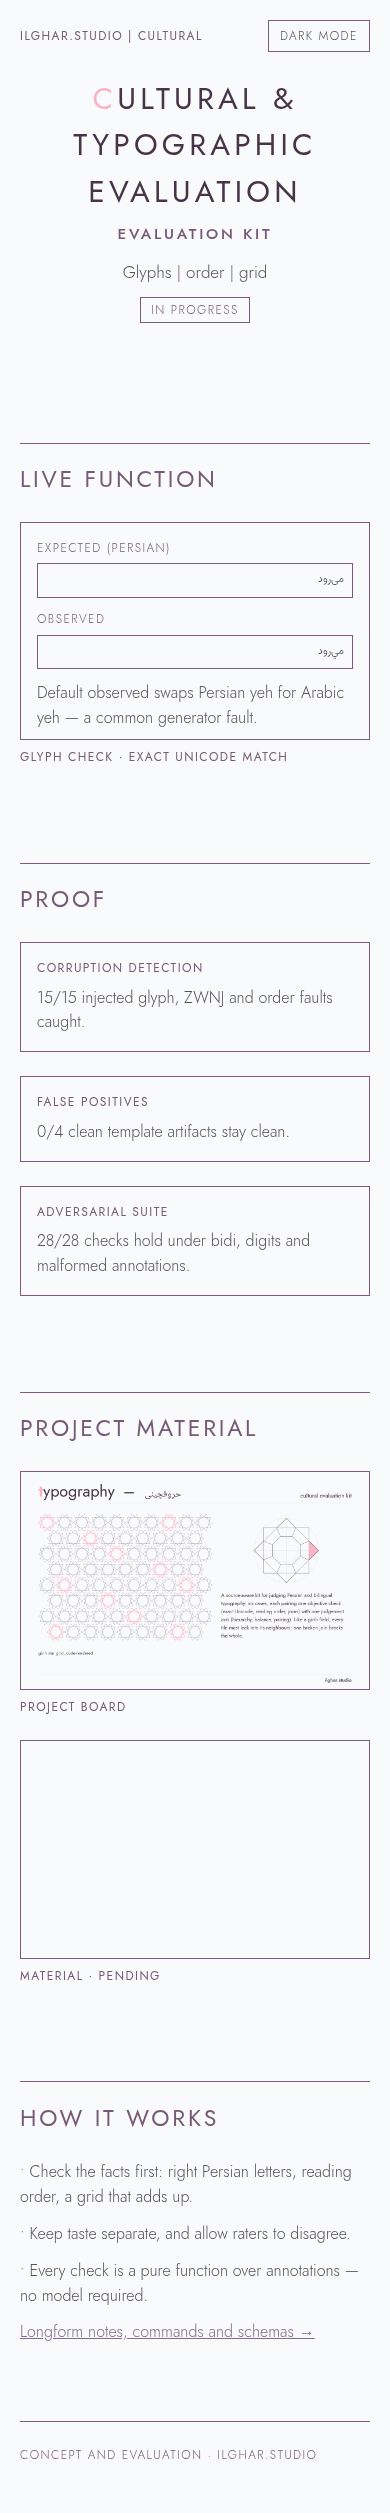
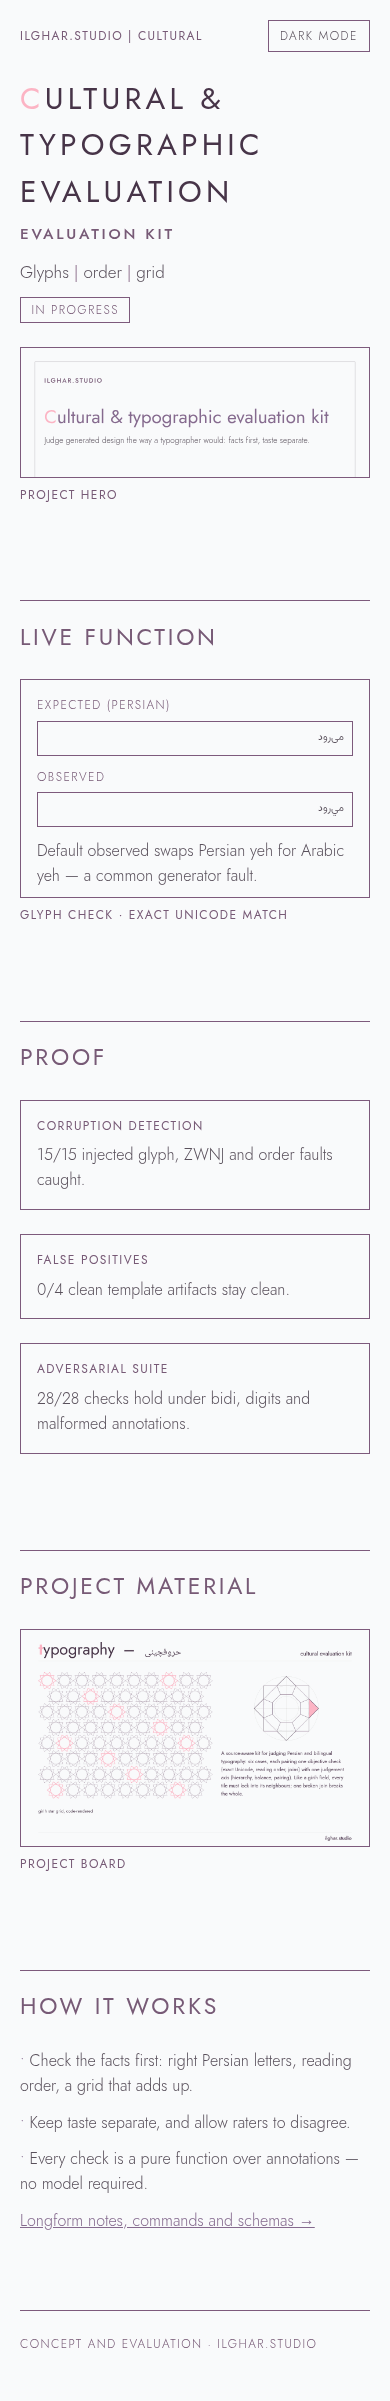
fix(pages): left-align header, add repo title-card hero, drop pending
Wire docs/hero/hero-*.svg into site/hero in an 8:3 frame (existing
title-card art). Left-align .hero. Remove Material·pending. Prefill
glyph check by running it on load with the sample fields.

diff --git a/site/index.html b/site/index.html
@@ -32,6 +32,16 @@ pre.out{margin:0;font:300 14px/1.5 Jost;white-space:pre-wrap;color:var(--fg)}
     <span class="status">In progress</span>
   </header>
 
+  <figure class="span12">
+    <div class="frame r83">
+      <picture>
+        <source media="(prefers-color-scheme: dark)" srcset="hero/hero-dark.svg">
+        <img src="hero/hero-light.svg" width="1200" height="630" alt="Title card for Cultural & Typographic Evaluation by ilghar.studio.">
+      </picture>
+    </div>
+    <figcaption>Project hero</figcaption>
+  </figure>
+
   <section class="span12" aria-label="Live function">
     <h2>Live function</h2>
     <figure>
@@ -59,21 +69,15 @@ pre.out{margin:0;font:300 14px/1.5 Jost;white-space:pre-wrap;color:var(--fg)}
 
   <section class="span12" aria-label="Project material">
     <h2>Project material</h2>
-    <div class="grid-66">
-      <figure>
-        <div class="frame r1610">
-          <picture>
-            <source media="(prefers-color-scheme: dark)" srcset="assets/board-dark.svg">
-            <img src="assets/board-light.svg" alt="Project board: a fine-line star grid with some stars marked in rose, a code-drawn star construction with one rose point, and a text column describing the seven checks." width="2400" height="1500">
-          </picture>
-        </div>
-        <figcaption>Project board</figcaption>
-      </figure>
-      <figure>
-        <div class="frame r1610 placeholder" role="img" aria-label="Second material slot"></div>
-        <figcaption>Material · pending</figcaption>
-      </figure>
-    </div>
+    <figure>
+      <div class="frame r1610">
+        <picture>
+          <source media="(prefers-color-scheme: dark)" srcset="assets/board-dark.svg">
+          <img src="assets/board-light.svg" alt="Project board: a fine-line star grid with some stars marked in rose, a code-drawn star construction with one rose point, and a text column describing the seven checks." width="2400" height="1500">
+        </picture>
+      </div>
+      <figcaption>Project board</figcaption>
+    </figure>
   </section>
 
   <section class="span12">
@@ -103,6 +107,7 @@ document.getElementById("g-run").addEventListener("click",function(){
   }
   document.getElementById("g-out").textContent=lines.join("\n");
 });
+document.getElementById("g-run").click();
 </script>
 </body>
 </html>

diff --git a/site/pages-shell.css b/site/pages-shell.css
@@ -38,14 +38,14 @@ header.site{display:flex;align-items:center;justify-content:space-between;gap:12
   background:transparent;border:1px solid var(--line);border-radius:0;padding:.35rem .7rem;cursor:pointer;
 }
 .theme-toggle:focus-visible,.ilg-theme-toggle:focus-visible{outline:2px solid var(--line);outline-offset:2px}
-.hero{text-align:center;margin:0 0 24px}
+.hero{text-align:left;margin:0 0 24px}
 .hero .name,.hero h1{
   font-size:40px;font-weight:400;letter-spacing:.14em;text-transform:uppercase;color:var(--head);margin:0;
 }
 @media (max-width:600px){.hero .name,.hero h1{font-size:30px}}
 .hero .first,.hero .initial{color:var(--pink)}
 .hero .title{display:block;margin-top:8px;font-weight:500;font-size:.95rem;letter-spacing:.18em;text-transform:uppercase;color:var(--label)}
-.hero .sub{font-size:17px;font-weight:300;color:var(--fg);margin:12px auto 0;max-width:64ch}
+.hero .sub{font-size:17px;font-weight:300;color:var(--fg);margin:12px 0 0;max-width:64ch}
 .hero .sub span+span::before{content:" | ";color:var(--line)}
 .badge,.status{
   display:inline-block;margin-top:12px;border:1px solid var(--line);padding:.15rem .65rem;
